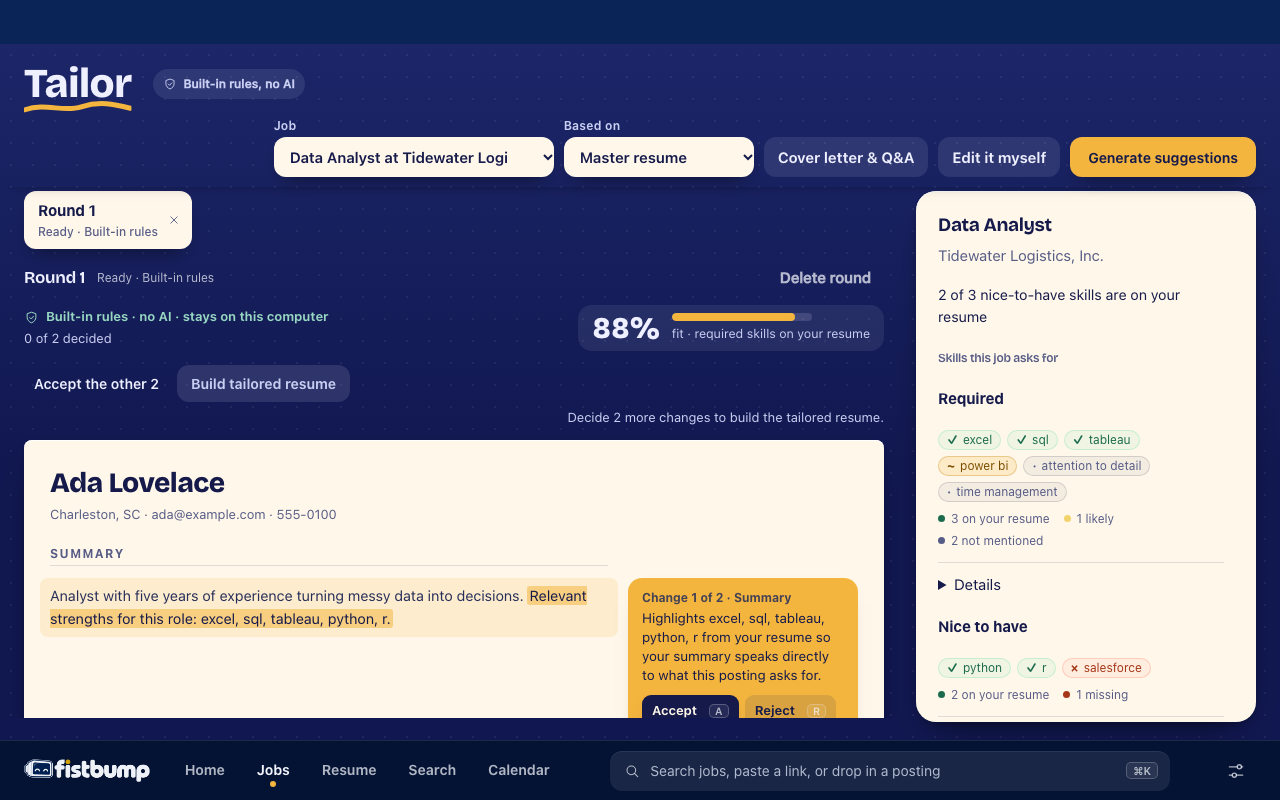
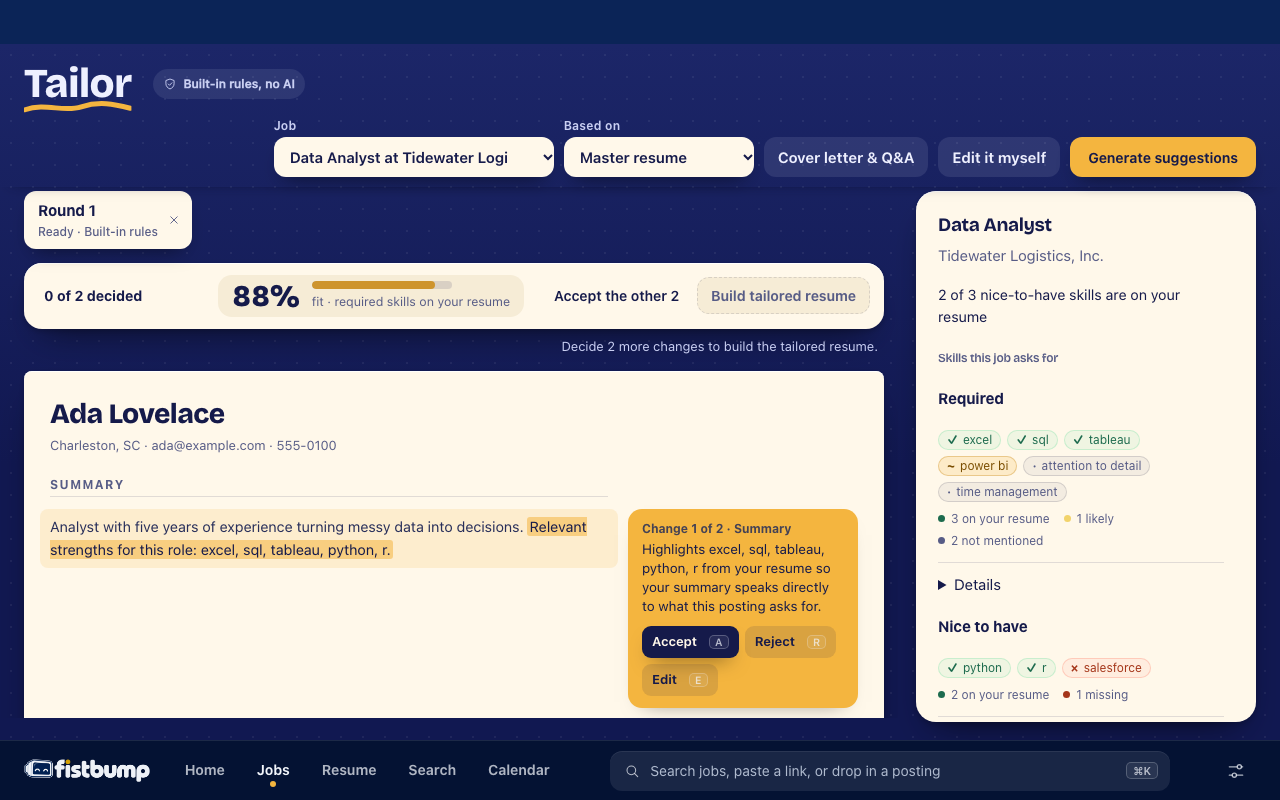
fix(tailor): one strip for the desk header, no repeated round or engine line
While a round's suggestions are open, the round tab names the round and
deletes it, so the old round heading, its meta line and "Delete round" step
aside ("View tailored resume" stays). The engine chip in the title row
already says who wrote the suggestions, so the bar no longer repeats it.
Decided count, the fit meter and the build step sit on one paper strip.

Changed region(s): [[0.0, 0.3125, 0.6875, 0.5625], [0.0312, 0.5938, 0.6875, 0.9062]]

diff --git a/app/renderer/styles/v3.css b/app/renderer/styles/v3.css
@@ -2026,3 +2026,29 @@ html[data-vt]::view-transition-group(navbar), html[data-vt]::view-transition-gro
 :root .v3.tl3:has(.t3-desk) .tailor-aside .score { display: none; }
 /* The gear looks chosen only while Settings is open, not after you leave it for another place. */
 :root .app:not(.settings-open) .bottombar .bar-icon[aria-selected="true"] { color: var(--muted); background: transparent; }
+
+/* ==================== Tailor desk header, consolidated ==================== */
+/* While a round's suggestions are on the desk: the round tab names the round and carries its delete, so the old
+   round heading, its meta line and "Delete round" step aside (a "View tailored resume" button stays). The engine
+   chip in the title row already says who wrote the suggestions, so the bar does not say it again. What is left —
+   how many are decided, the fit, and the build step — sits on one paper strip above the sheet. */
+:root .v3.tl3 .tailor-stage:has(.t3-desk) > .round-head > h2,
+:root .v3.tl3 .tailor-stage:has(.t3-desk) > .round-head > .round-meta,
+:root .v3.tl3 .tailor-stage:has(.t3-desk) > .round-head .round-actions > .quiet { display: none; }
+:root .v3.tl3 .tailor-stage:has(.t3-desk) > .round-head:not(:has(button.primary)) { display: none; }
+:root .v3.tl3 .tailor-stage:has(.t3-desk) > .round-head { justify-content: flex-end; margin-bottom: 8px; }
+:root .v3.tl3 .round-head button.primary { min-height: 38px; padding: 0 16px; border: 0; border-radius: 12px; background: var(--mark); color: var(--ink); font-weight: 700; box-shadow: var(--shadow-control); }
+:root .v3.tl3 .t3-priv { display: none; }
+
+:root .v3.tl3 .t3-bar { gap: 12px 20px; margin-bottom: 14px; padding: 12px 14px 12px 20px; border-radius: 18px; background: var(--paper); color: var(--ink); box-shadow: var(--shadow-paper); }
+:root .v3.tl3 .t3-count { color: var(--ink); font-size: 14px; font-weight: 700; }
+:root .v3.tl3 .t3-meter { padding: 6px 14px; background: var(--paper-2); color: var(--ink); }
+:root .v3.tl3 .t3-meter .t3-fit-n, :root .v3.tl3 .t3-meter .t3-fit-pc { color: var(--ink); }
+:root .v3.tl3 .t3-meter .t3-fit-note { color: var(--ink-2); }
+:root .v3.tl3 .t3-track { background: var(--rule); }
+:root .v3.tl3 .t3-track i { background: var(--mark-deep); }
+:root .v3.tl3 .t3-bar-acts .btn-text { color: var(--ink); }
+:root .v3.tl3 .t3-bar-acts .btn-text:hover:not(:disabled) { background: var(--paper-2); }
+:root .v3.tl3 .t3-bar-acts .btn-mark:disabled { background: var(--paper-2); color: var(--ink-2); outline: 1.5px dashed var(--rule); outline-offset: -1.5px; box-shadow: none; }
+/* the hint sits under the strip, quiet, on the canvas */
+:root .v3.tl3 .t3-hint { margin: -6px 6px 14px; }
